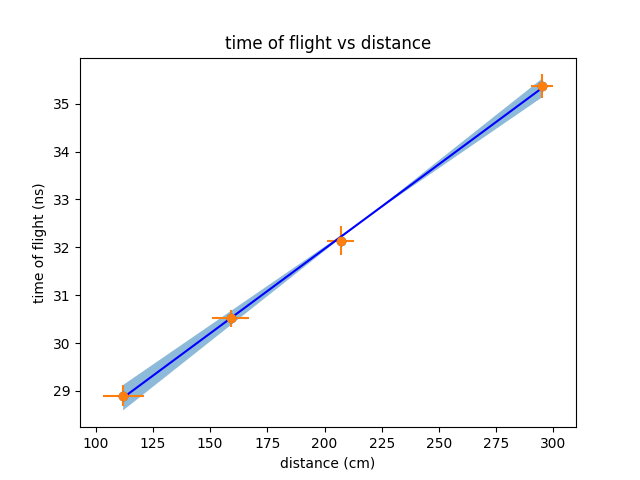
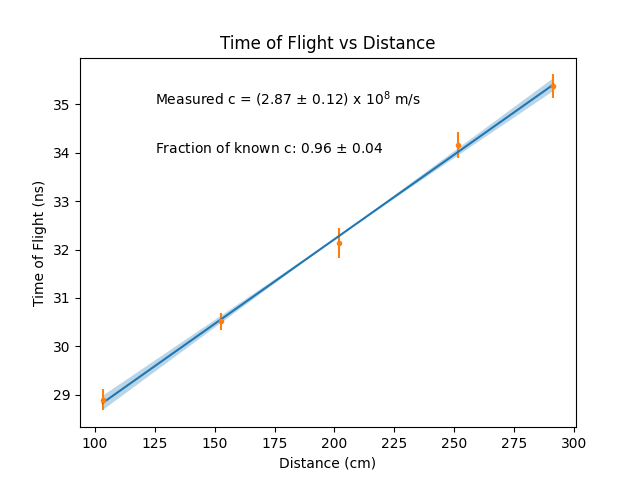
analysis of flight time

diff --git a/Exp1-CosmicRayMuons/distance_distribution_MC.py b/Exp1-CosmicRayMuons/distance_distribution_MC.py
@@ -1,0 +1,111 @@
+'''
+We perform a Monte Carlo simulation of the following problem:
+
+There are two rectangular horizontal boards, each having 43 x 55 cm,
+and one of the boards is placed heigh h directly above the other.
+
+Muons come in from above. We detect a muon if it passes through both boards.
+The angular distribution of the muons is uniform (so it's proportional to cos^2(theta)).
+
+We will perform a reweighted Monte Carlo simulation where we randomly select a point on the top board,
+then randomly generate a direction for the muon, and check if the muon passes through the bottom board.
+if it does, we record the distance between the point on the top board and the point on the bottom board.
+'''
+
+import numpy as np
+import matplotlib.pyplot as plt
+import scipy.optimize
+import scipy.special
+import math
+import random
+from tqdm import tqdm
+
+L = 43
+W = 55
+
+def generate_point_on_top_board():
+    '''
+    Generates a random point on the top board
+    '''
+    x = random.uniform(0, L)
+    y = random.uniform(0, W)
+    return x, y
+
+def generate_direction():
+    '''
+    Generates a random direction for the muon. 
+    
+    generate a point on the unit sphere, 
+    and then accept it with probability cos(theta)^2
+    '''
+    # generate theta via rejection sampling
+    # while True:
+    #     theta = random.uniform(0, np.pi/2)
+    #     if random.uniform(0, 1) < np.cos(theta)**2:
+    #         break
+    # phi = random.uniform(0, 2*np.pi)
+    theta = np.arccos(np.sqrt(random.uniform(0, 1)))
+    phi = random.uniform(0, 2*np.pi)
+    # if theta is negative, then we take the absolute value of theta
+    # this is because the angular distribution is symmetric about 0
+    if theta < 0:
+        theta = -theta
+    
+    # accept the point with probability cos(theta)^2
+    if random.uniform(0, 1) < np.cos(theta)**2:
+        return theta, phi
+    else:
+        return generate_direction()
+
+def MC_sample(d):
+    '''
+    generate a point on top board and an angle,
+    then check if the muon passes through the bottom board
+    and return the distance between the two points if it does
+    Parameters:
+        d: the distance between the two boards
+    '''
+    x, y = generate_point_on_top_board()
+    theta, phi = generate_direction()
+    # check if the muon passes through the bottom board
+    # the equation of the line is given by:
+    # new point is x + cos(phi)*tan(theta)*d, y + sin(phi)*tan(theta)*d
+    x_new = x + np.cos(phi)*np.tan(theta)*d
+    y_new = y + np.sin(phi)*np.tan(theta)*d
+    if 0 <= x_new <= L and 0 <= y_new <= W:
+        return np.sqrt((x_new - x)**2 + (y_new - y)**2 + d**2)
+    else:
+        return None
+    
+def MC_simulation(d, N, verbose=False):
+    '''
+    Perform a Monte Carlo simulation of the problem
+    Parameters:
+        d: the distance between the two boards
+        N: the number of samples
+    Returns:
+        the distance distribution
+    '''
+    distances = []
+    while len(distances) < N:
+        if verbose and np.random.uniform(0, 1) < 0.001:
+            print(len(distances))
+        distance = MC_sample(d)
+        if distance is not None:
+            distances.append(distance)
+    return distances
+
+
+def get_mean_dist(d, N):
+    data = MC_simulation(d, N)
+    return np.mean(data), np.std(data)/np.sqrt(len(data))
+
+if __name__ == '__main__':
+    data = MC_simulation(d=100, N=10000)
+    # print the mean distance
+    print(np.mean(data))
+    print(np.std(data)/np.sqrt(len(data)))
+
+
+# plt.hist(data, bins=100, density=True)
+# plt.show()

diff --git a/Exp1-CosmicRayMuons/cccccccc.py b/Exp1-CosmicRayMuons/cccccccc.py
@@ -6,11 +6,16 @@ import numpy as np
 import matplotlib.pyplot as plt
 from velocity_analysis import get_tof
 import lin_regress as lr
+from distance_distribution_MC import get_mean_dist
 
-distances = [100, 150, 200, 290]
-corrected_distances = [112, 159, 207, 295]
-distance_std = [9, 8, 6, 5]
-# corrected_distances = [150, 200, 290]
+distances = [100, 150, 200, 250, 290]
+MC_SIM_TRIALS = 1000
+print("STARTING MC SIMULATION")
+sim = [get_mean_dist(d, MC_SIM_TRIALS) for d in distances]
+print("MC SIMULATION FINISHED")
+corrected_distances = [s[0] for s in sim]
+corrected_distances_std = [s[1] for s in sim]
+
 file_names = [str(d) + 'cm_final' for d in distances]
 
 # get the time of flight for each distance
@@ -19,33 +24,37 @@ tof_errors = [get_tof(file_name)[1] for file_name in file_names]
 # print(tofs)
 
 # plot the time of flight vs distance
-plt.plot(corrected_distances, tofs, 'o')
-plt.xlabel('distance (cm)')
-plt.ylabel('time of flight (ns)')
-plt.title('time of flight vs distance')
+# plt.plot(corrected_distances, tofs, 'o')
+plt.xlabel('Distance (cm)')
+plt.ylabel('Time of Flight (ns)')
+plt.title('Time of Flight vs Distance')
 
 # fit a line to the data
 
-m, b, merr, berr = lr.lin_regression_with_error(corrected_distances, tofs,distance_std,  tof_errors, 1000)
+m, b, merr, berr = lr.lin_regression_with_error(corrected_distances, tofs, corrected_distances_std,  tof_errors, 1000)
 max_line = [(m-merr)*d+(b+berr) for d in corrected_distances]
 best_line = [(m)*d+(b) for d in corrected_distances]
 min_line = [(m+merr)*d+(b-berr) for d in corrected_distances]
 
 
 
-plt.errorbar(corrected_distances, tofs, xerr=distance_std, yerr=tof_errors,ls='none',marker="o")
-plt.fill_between(corrected_distances, min_line, max_line,alpha=0.5)
-plt.plot(corrected_distances, best_line,"b")
+plt.errorbar(corrected_distances, tofs, xerr=corrected_distances_std, yerr=tof_errors, ls='none', marker=".", color = 'tab:orange')
+plt.fill_between(corrected_distances, min_line, max_line,alpha=0.3)
+plt.plot(corrected_distances, best_line, color = 'tab:blue')
 
-
-#plt.plot(distances, m*np.array(distances) + b)
-
-plt.savefig('./images/tof_vs_distance.png')
 
 # calculate the speed of light
 # m is in units of ns/cm
-c = (1/m) * 1e9 # in units of cm/s
-cerr = (merr/m**2)*1e9
-cc = 2.998e10 # in units of cm/s
+c = (1/m) * 1e7 # in units of m/s
+cerr = (merr/m**2)*1e7
+cc = 2.998e8 # in units of m/s
 print(f"fraction of speed of light: {c/cc} +- {cerr/cc}")
+
+# divide c by 1e8 to make it easier to read
+c_text = f"({c/1e8:.2f} $\pm$ {cerr/1e8:.2f}) x $10^8$ m/s"
+plt.text(125, 35, f"Measured c = {c_text}")
+plt.text(125, 34, f"Fraction of known c: {c/cc:.2f} $\pm$ {cerr/cc:.2f}")
+
+
+plt.savefig('./images/tof_vs_distance.png')
 

diff --git a/Exp1-CosmicRayMuons/velocity_analysis.py b/Exp1-CosmicRayMuons/velocity_analysis.py
@@ -94,5 +94,5 @@ def get_tof(filename, generate_plot=False):
 
 
 if __name__ == '__main__':
-    filename = '200cmpleasehelp'
+    filename = '290cm_final'
     print(get_tof(filename, generate_plot=True))
